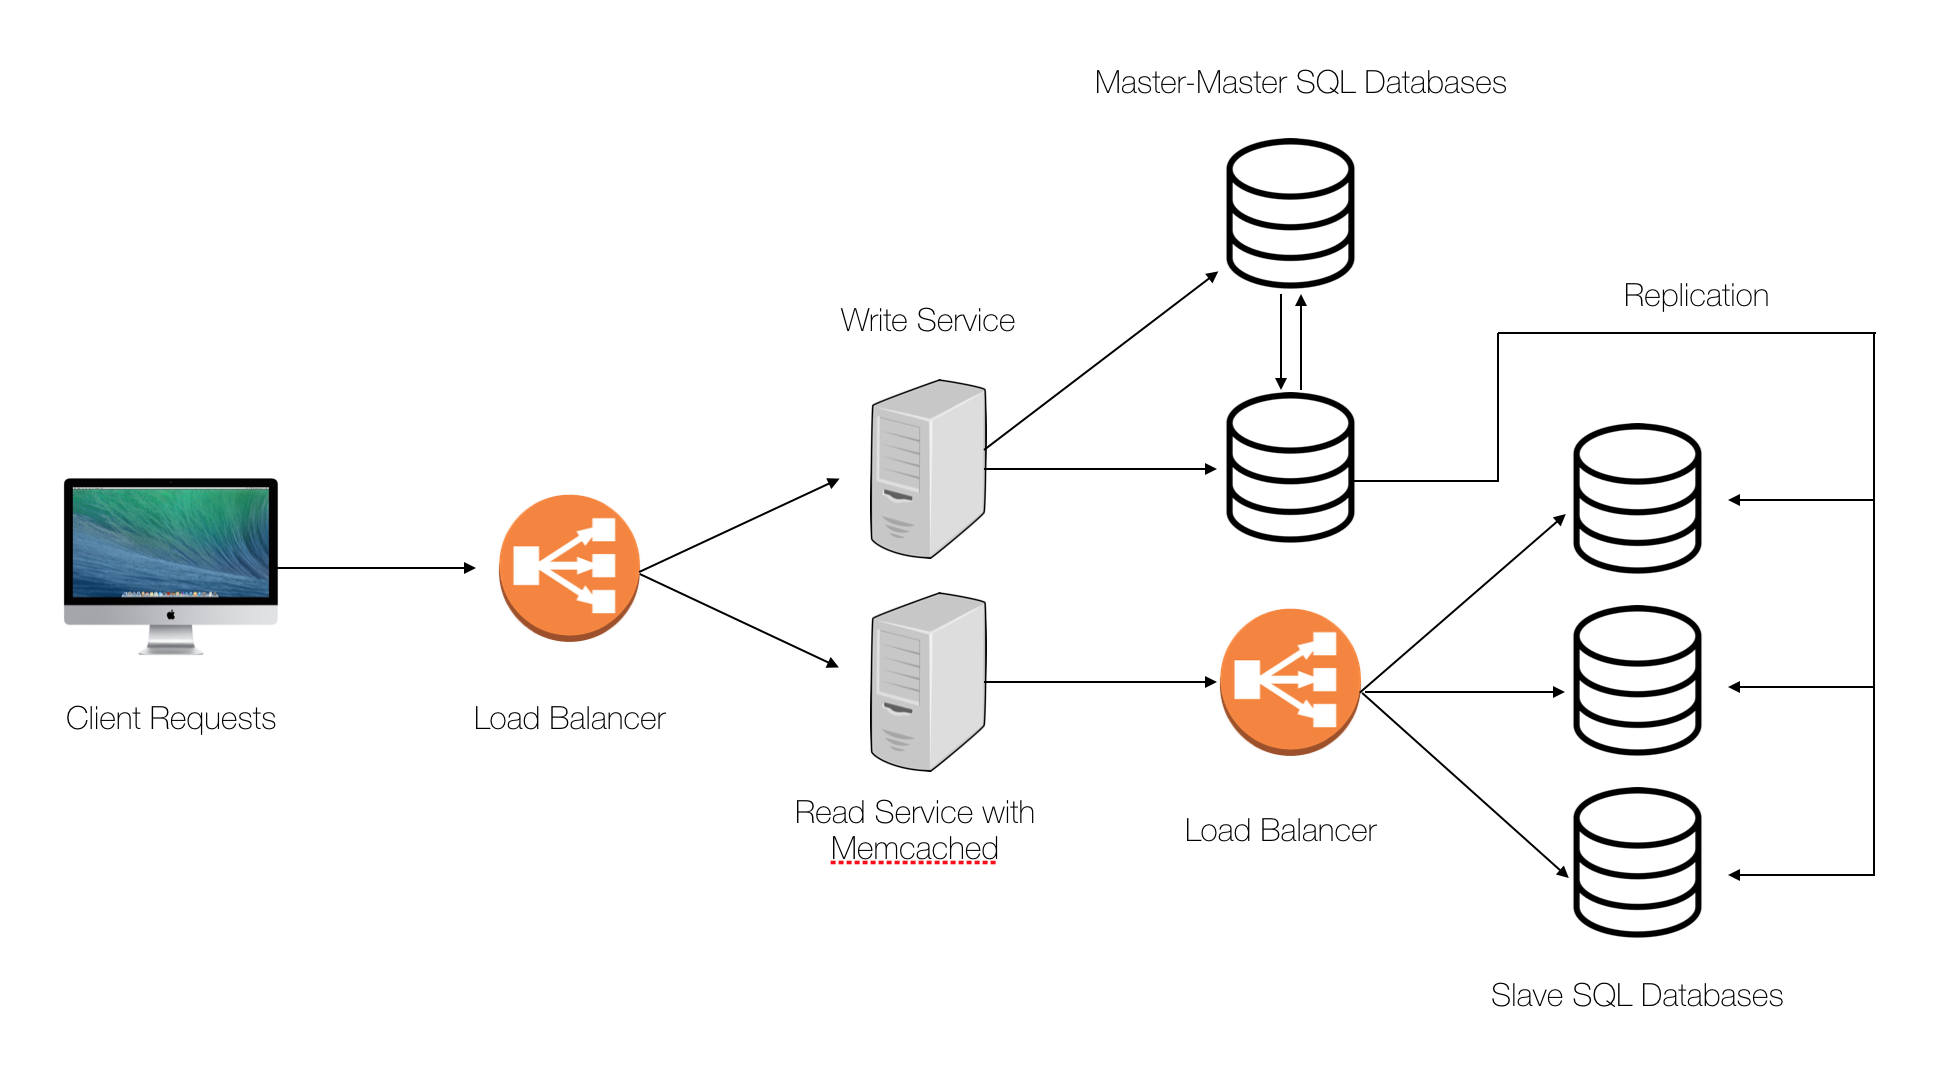
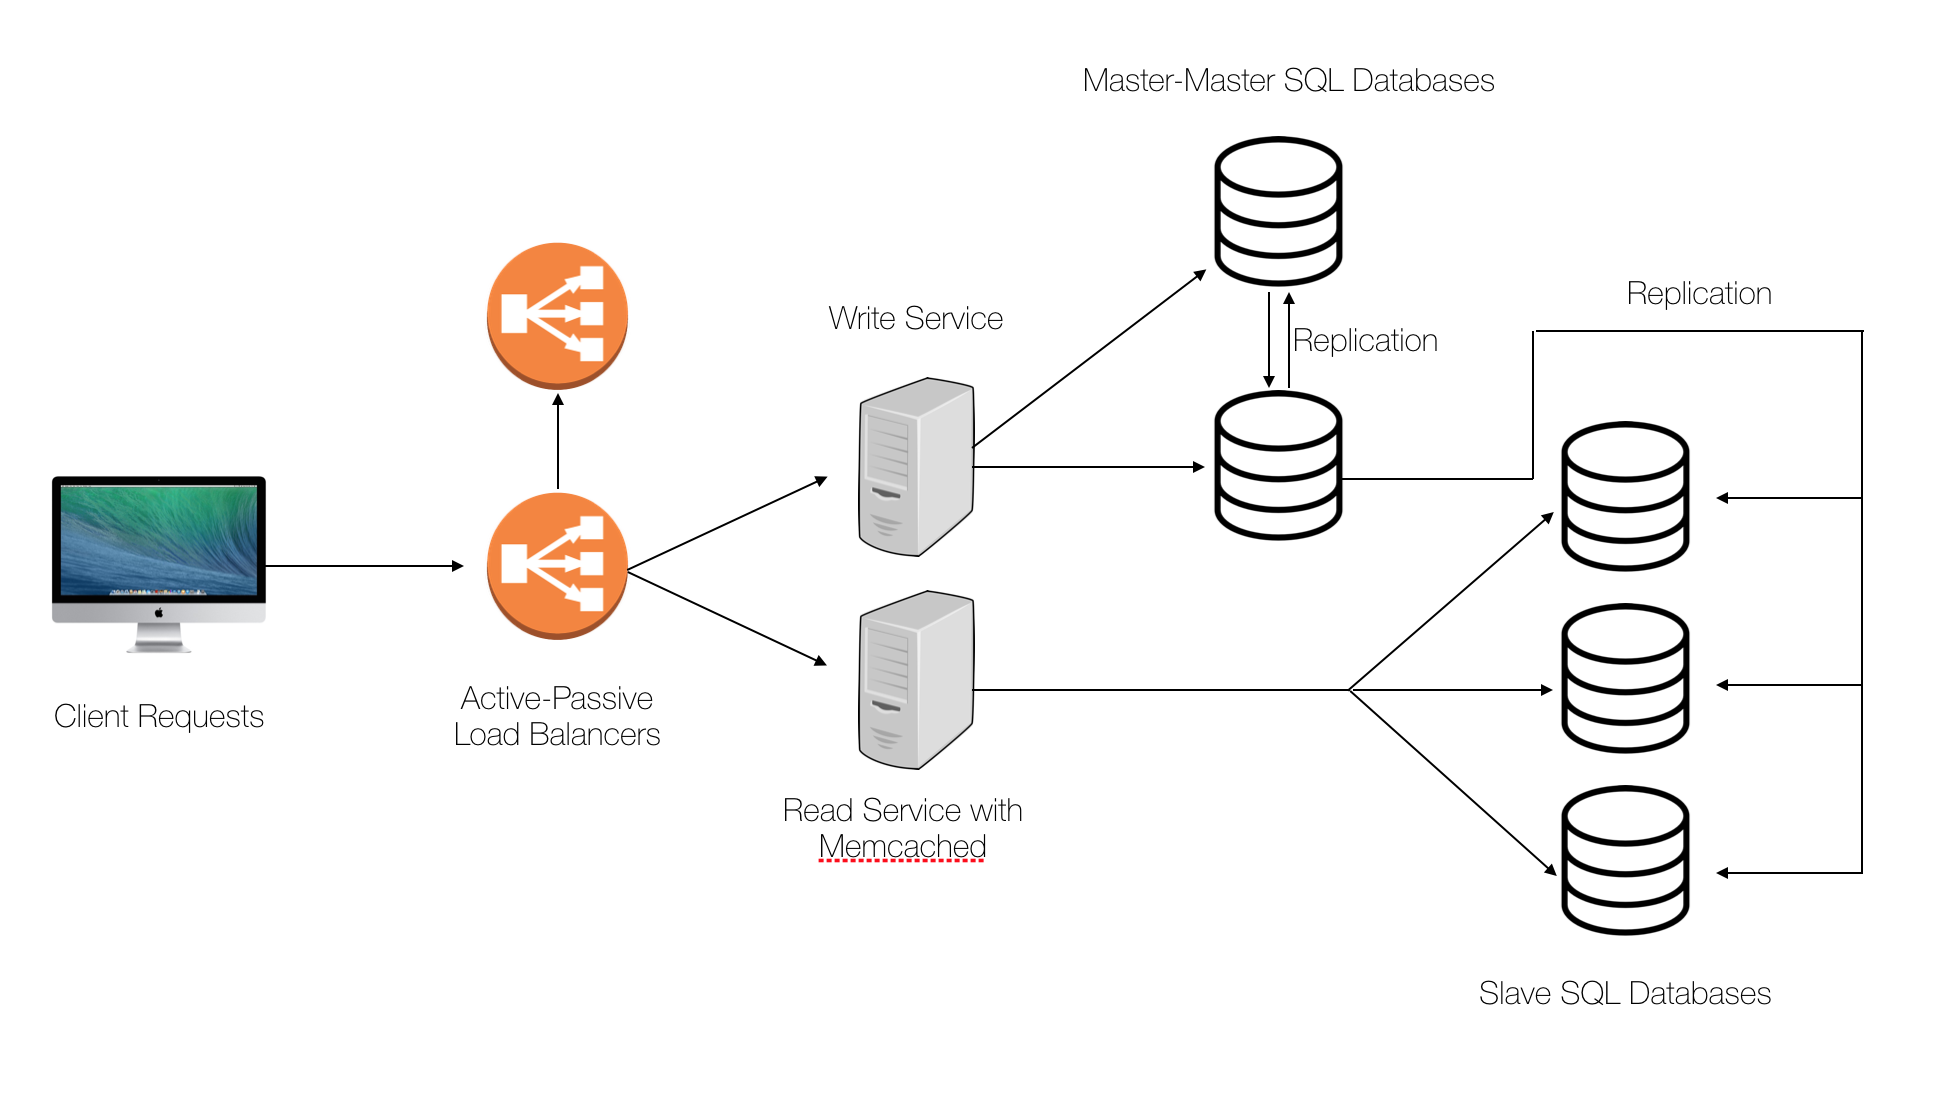
updated scalability section

diff --git a/README.md b/README.md
@@ -4,7 +4,7 @@
 
 ## System Design Prompt
 
-“Design a simplified version of Twitter where people can post tweets, follow other people and favorite tweets.”
+Design a simplified version of Twitter where people can post tweets, follow other people and favorite tweets.
 
 ## Clarifying Questions
 
@@ -24,6 +24,7 @@ If you're working through this problem by yourself or doing a mock interview wit
 Abbreviations that I'll use in the solution:
   * B - billion 
   * M - million
+  * kB - kilobyte
   * GB - gigabyte 
   * TB - terabyte
 
@@ -113,10 +114,10 @@ Total required storage capacity = 1.4 TB + 16 GB + 240 GB = ~2.7 TB
 ##### Disk I/O
 
 Writes:  
-  * 115 tweets/second * 140 bytes/tweet = 16 kb/sec  
-  * 230 favorites/second * 12 bytes/favorite = 3 kb/sec  
+  * 115 tweets/second * 140 bytes/tweet = 16 kB/sec  
+  * 230 favorites/second * 12 bytes/favorite = 3 kB/sec  
 
-Total writes: 350 writes/sec => 20 kb/sec  
+Total writes: 350 writes/sec => 20 kB/sec  
 
 *Note: I rounded up to 350 and 20 in order to make the numbers easier to work with.*
 
@@ -154,7 +155,7 @@ Database Layer
 Our application service layer is very light weight since we don't need to do any processing.  It's essentially just a wrapper for our database queries.  
 
 Our bottlenecks are going to occuring in the database layer. To recap:  
-Total writes: 350 writes/sec => 20 kb/sec  
+Total writes: 350 writes/sec => 20 kB/sec  
 Total reads: 800 reads/sec => 2.25 MB/sec 
 
 It depends on how effective our caching implementation will be, but the reads are most likely going to be the main bottleneck. 
@@ -220,9 +221,20 @@ Fetch all of the users that have favorited a tweet
 
 ### Step 4: Scalable Design
 
-The image below is an example of a system that you might use to scale your simplified Twitter app.  The first thing you'll notice is that we break the application service layer out into a read and write services, and put them behind a load balancer.  This will help us handle the large loads and allow us to scale read and writes independently of one another.  We added caching to the read service using Memcached, which will allow us to read the most common requests directly from memory instead of having to read from the database.  Reading from memory is 4x faster than reading from SSD and 80x faster than reading from disk.  If a request is not in the cache, it is fowared on to one of the slave databases.  This setup should allow us to address the read bottleneck that we identified in Step 2.  One thing to keep in mind is that as our data grows in size, we may have to start partitioning our databases.
+The image below is an example of a system that you might use to scale your simplified Twitter app.  The first thing you'll notice is that we break the application service layer out into a read and write services, and put them behind an active-passive load balancer setup.  This will help us handle the large loads and allow us to scale read and writes independently of one another.  We added caching to the read service using Memcached, which will allow us to read the most common requests directly from memory instead of having to make a database query.  Reading from memory is 4x faster than reading from SSD and 80x faster than reading from disk.  If a request is not in the cache, it is fowared on to one of the slave databases.  This setup should allow us to address the read bottleneck that we identified in Step 2.  One thing to keep in mind is that as our data grows in size, we may have to start partitioning our databases.
 
-It should also be pointed out that we still have single points of failure in the design below with the load balancers.  If either one of them were to die, then our entire site would go down.  This can be fixed by using either an Active-Active or Active-Passive load balancer setup.
+If you're not familiar with some of these scaling concepts, I would recommend you check out this [scalability lecture](https://www.youtube.com/watch?v=-W9F__D3oY4&t=6s).
+
 
 ![scalable design](assets/scalable-design.png)
+
+
+### Going Further
+
+Other topics that were not included in this solution, but might come up during the interview are:
+
+Authentication  
+Sessions  
+Security  
+Data Partitioning 
 
